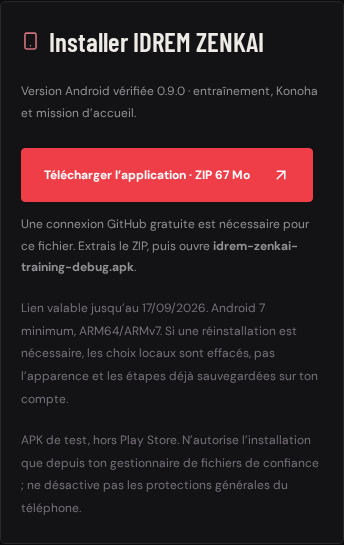
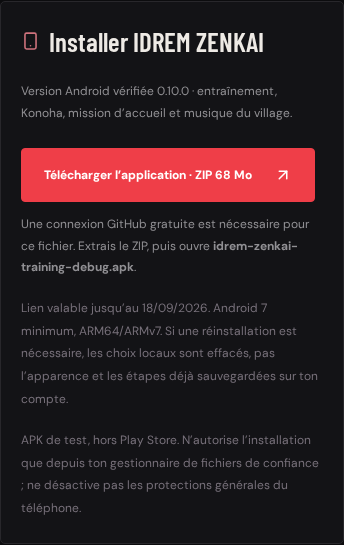
docs: deliver verified grouped 0.10 and update accepted installer link [skip ci]

diff --git a/src/main.jsx b/src/main.jsx
@@ -1399,12 +1399,14 @@ function Account() {
           </div>
           <p>
             Version Android vérifiée {account.download?.version || "—"} ·
-            entraînement, Konoha et mission d’accueil.
+            entraînement, Konoha, mission d’accueil et musique du village.
           </p>
           {account.download?.available ? (
             <>
               <a className="button" href="/api/game-download">
-                Télécharger l’application · ZIP {Math.round(account.download.bytes / 1000000)} Mo <ArrowUpRight size={18} />
+                Télécharger l’application · ZIP{" "}
+                {Math.round(account.download.bytes / 1000000)} Mo{" "}
+                <ArrowUpRight size={18} />
               </a>
               <p>
                 Une connexion GitHub gratuite est nécessaire pour ce fichier.

diff --git a/server/android-build.js b/server/android-build.js
@@ -1,10 +1,10 @@
 // Last verified installer only. Never advertise an uncompiled development version.
 export const androidBuild = Object.freeze({
-  version: "0.9.0",
+  version: "0.10.0",
   name: "idrem-zenkai-training-debug.apk",
-  bytes: 67075079,
-  expiresAt: "2026-09-17T12:00:52Z",
-  url: "https://github.com/Zorolefrerot/MATCHLY-PROJECT/actions/runs/34474189586/artifacts/10150821501",
+  bytes: 67529246,
+  expiresAt: "2026-09-18T12:57:34Z",
+  url: "https://github.com/Zorolefrerot/MATCHLY-PROJECT/actions/runs/34601493231/artifacts/10264293080",
 });
 export function downloadInfo(now = Date.now()) {
   const { url, ...info } = androidBuild;

diff --git a/game/VALIDATION.md b/game/VALIDATION.md
@@ -1,33 +1,42 @@
-# Validation du prototype — 10 septembre 2026
+# Validation du prototype — 11 septembre 2026
 
-## Ajouts suivants en préparation, sans nouvel APK
-
-Le propriétaire confirme que le lot 0.9 et sa reprise de mission fonctionnent. Suppression des comptes acceptés et téléchargement protégé : **31 tests Node, 9 tests PostgreSQL, 2 parcours Playwright et Vite réussis**, avec données fictives uniquement. Captures mobiles inspectées.
-
-Musique reçue (`1001641947.mp3` sur `main`), décodée, préparée en Vorbis et raccordée au cycle de vie Konoha. Regénération identique, tests natifs ajoutés, analyse statique sans nouvelle erreur ; **import/simulation moteur, écoute Android et nouvelle compilation pas encore exécutés**. Pas de téléchargement par petite tâche. Présence multijoueur et chat non encore implémentés. [État détaillé](../docs/AJOUTS_SITE_MUSIQUE.md).
-
-Les résultats et l’APK suivants restent ceux de **0.9 déjà livré et confirmé fonctionnel par le propriétaire**, pas une validation des nouvelles modifications.
-
-## Résultats obtenus
+## Résultats actuels du lot regroupé 0.10
 
 | Vérification | Résultat réel |
 |---|---|
-| Tests Node du site + isolation/sons du prototype | **28/28 passent** |
-| Intégration PostgreSQL réel jetable | **8/8 passent**, dont compte et mission sur deux pools |
+| Tests Node du site et des ressources du prototype | **31/31 passent** |
+| Intégration PostgreSQL réel jetable | **9/9 passent**, dont suppression/remplacement et concurrence sur deux pools |
+| Parcours Playwright Chromium | **2/2 passent**, dont téléchargement accepté et suppression fictive sur mobile |
 | Construction Vite du site | Réussie, 1 597 modules |
-| Analyse GDScript | Import et exécution réussis dans Godot officiel 4.5.1 |
-| Exécution Godot de `tests/smoke.gd` | **231 assertions passent**, code de sortie 0, `IDREM_SMOKE_FAILURES=0` |
-| Erreurs dans le journal de la simulation | Aucune `SCRIPT ERROR`, `ERROR` ou assertion échouée |
-| Import dans l’éditeur officiel complet (CI) | Réussi, contrôle strict passé |
-| Import dans l’ancien éditeur local réduit | Erreurs d’environnement `fontconfig`, historique ci-dessous |
-| Rendu GL / captures | Étape CI réussie sous Xvfb/Mesa ; journal et incident réseau inspectés, pas un test Android |
-| Export APK / signature / permissions finales | **Réussis** : signature debug vérifiée avec `apksigner`, contrôle `aapt` avec INTERNET requis, sans caméra/micro/contacts/localisation/stockage externe |
-| Téléphone Android physique | **0.1.0 testé par le propriétaire** : fluidité appréciée, logo gênant signalé. **0.4 validé ; 0.6 confirmé fonctionnel ; zone 0.7 approuvée par le propriétaire ; lot 0.9 à tester** |
-| Workflow GitHub Actions | Activé par le propriétaire ; exécution **34474189586 verte** |
+| Import dans l’éditeur officiel complet | Réussi dans Godot 4.5.1, contrôle strict passé |
+| Exécution de `tests/smoke.gd` | **238 assertions passent**, sortie 0, `IDREM_SMOKE_FAILURES=0` |
+| Journal de simulation | Aucune `SCRIPT ERROR`, `ERROR` ou assertion échouée |
+| Rendu GL / captures | Étape CI réussie sous Xvfb/Mesa ; arrivée avec musique et journal inspectés |
+| Musique | Vorbis décodé, boucle et cycle de vie testés avec pilote Dummy ; pas une écoute humaine |
+| Export APK / signature / permissions finales | Réussis : `apksigner`, INTERNET requis ; sans caméra/micro/contacts/localisation/stockage externe |
+| Téléphone Android physique | **0.9 confirmé par le propriétaire**, mission et reprise comprises ; **0.10 à tester** |
+| GitHub Actions | Exécution **34601493231 verte** |
+| Production Render | **Mise à jour 0.10 non effectuée par l’agent**, Manual Deploy nécessaire |
 
-Le propriétaire a confirmé le compte 0.6 et approuvé le quartier 0.7. Après les décors 0.8, il a demandé des lots de plusieurs tâches avant installation et validé mission d’accueil + journal + persistance. **Le lot 0.9 n’a pas encore été essayé sur son téléphone ni déployé sur son serveur Render.** Les contrôles utilisent des bases jetables et des réponses/profils fictifs ; ils ne constituent pas un essai HTTPS en production ou un benchmark Android.
+Les contrôles utilisent des bases jetables et des profils fictifs. Aucun compte réel supprimé. Pas d’essai HTTPS de production ni de benchmark Android. Présence multijoueur, déplacements synchronisés et chat RP/HRP restent à implémenter.
 
-## Mise à jour 0.9.0 — mission d’accueil, journal et sauvegarde
+## Mise à jour 0.10.0 — administration, téléchargement et musique
+
+[Exécution n° 19](https://github.com/Zorolefrerot/MATCHLY-PROJECT/actions/runs/34601493231), source **`33fb9ac7d8aa152373be0fa7dca2711749132456`**, branche `arena/01a08158-matchly-project`. Job **103269627552**, du 11 septembre 2026 à **12:55:55 à 12:57:39 UTC**. Un seul APK pour les trois ajouts ; les métadonnées et documents de livraison sont actualisés ensuite sans deuxième build.
+
+- **238 assertions Godot** : les 231 précédentes conservées plus sept vérifications musicales (Vorbis en boucle, volume/bus, lecture et isolation du combat, coupure, focus, arrêt à la sortie). Import, simulation, export, signature, permissions et captures réussis.
+- **31 tests Node, 9 tests PostgreSQL, 2 parcours Playwright et Vite** réussis. Suites locales relancées après mise à jour du lien 0.10. Les tests navigateur couvrent l’admission et le téléchargement, les confirmations de suppression, l’erreur de mot de passe et son effacement, une suppression fictive et la révocation de session.
[1 lines of base64/hex data omitted]
+- Captures ordinateur récupérées intégralement via Checks et inspectées : [arrivée et bouton musical](../docs/images/konoha-10-arrival.jpg), [journal](../docs/images/konoha-10-journal.jpg). Les autres vues du ZIP ne sont pas prétendues inspectées. [Téléchargement 0.10 mobile](../docs/images/download-accepted-mobile.png) également inspecté.
+- Version **0.10.0**, code **10**, HUD **PROTO 0.10**, paquet `org.idremzenkai.training`, API minimum 24/cible 35, ARM64 et ARMv7. Signature debug ; une réinstallation peut être nécessaire, avec perte des préférences locales mais pas des sauvegardes du compte conservé.
[2 lines of base64/hex data omitted]
+- Journaux `godot-test-logs-19` : artefact **10264437975**, **24 295 octets**, pas l’installateur.
+- API GitHub après livraison : **27 artefacts non expirés**, total **517 240 603 octets** (environ **493,3 Mio**), contre 449 687 062 avant ce build. Proche du quota gratuit ; ce sous-total du dépôt n’est pas le relevé global de facturation. Aucun artefact supprimé, budget changé ou workflow modifié par l’agent.
+- Serveur : migrations additives, suppression acceptée avec nom exact/mot de passe/accord explicite de libération de place, révocation des accès, anonymisation et audit conservés ; vingt places et exactement trois potentiels préservés lors des remplacements. Téléchargement recontrôlé au clic. Aucun nouveau secret requis.
+- **Déployer le dernier commit sur le service Render existant avant l’essai du site**. Écoute/installation réelles de 0.10 encore à confirmer. [Contrats et limites](../docs/AJOUTS_SITE_MUSIQUE.md).
+
+## Historique : mise à jour 0.9.0 — mission d’accueil, journal et sauvegarde
 
 [Exécution n° 18](https://github.com/Zorolefrerot/MATCHLY-PROJECT/actions/runs/34474189586), source **`fc8beb91a2fd9d9a9d085575ad614bf05dd4e41f`**, branche `arena/01a08158-matchly-project`. Lot implémenté en `334d81d85714bc505d09019c06dd87da18e75370`, puis durcissement des types JSON. Job **102860911832**, toutes les étapes réussies en **1 min 40 s**, du 10 septembre 2026 à 11:59:19 à 12:00:59 UTC.
 
@@ -37,7 +46,7 @@ Le propriétaire a confirmé le compte 0.6 et approuvé le quartier 0.7. Après 
 - Import officiel, simulation, export Android debug signé, permissions et captures réussis. **Un seul APK du lot publié** après le contrôle préalable ; aucun téléchargement intermédiaire demandé au propriétaire.
 - Dix-huit captures ordinateur produites. **Journal et incident réseau inspectés**, images 480×270 récupérées intégralement via huit notices Checks. Texte défilant contenu dans le panneau, boutons visibles. Les autres captures sont dans le ZIP, pas prétendues inspectées individuellement ici. Captures avec profils fictifs, y compris l’incident ; pas de véritable coupure de réseau Android.
 - Serveur modifié uniquement pour l’orientation : table additive `welcome_missions`, champ `welcomeMission` et route de cinq événements bornés. Les sessions et contrôles d’admission existants protègent chaque écriture ; pas de position, outbox local ou récompense. Un client modifié peut déclarer ses lectures : ce n’est pas une validation anti-triche de déplacement.
-- **Déploiement Render nécessaire avant l’essai**, service et branche existants, migration automatique sans nouveau secret. `autoDeploy: false` conservé. Ni Neon de production ni les comptes réels n’ont été modifiés par les tests.
+- Lors de la livraison 0.9 : **déploiement Render nécessaire avant l’essai**, service et branche existants, migration automatique sans nouveau secret. Le propriétaire a ensuite confirmé le fonctionnement de la mission et de sa reprise. `autoDeploy: false` conservé. Ni Neon de production ni les comptes réels n’ont été modifiés par les tests.
 - Version **0.9.0**, code **9**, HUD **PROTO 0.9**, paquet `org.idremzenkai.training`, API minimum 24/cible 35, ARM64 et ARMv7. INTERNET conservé, aucune nouvelle permission sensible ; signature debug vérifiée.
[2 lines of base64/hex data omitted]

diff --git a/game/README.md b/game/README.md
@@ -2,19 +2,27 @@
 
 Prototype avec **entraînement solo hors ligne**, **compte connecté** et **premier quartier de Konoha à explorer en solo**. Godot **4.5.1 Standard**, GDScript, rendu Compatibility/OpenGL ES 3. Les personnages restent procéduraux et provisoires. Les nouveaux bâtiments sont construits en code ; leurs surfaces et la falaise utilisent aussi les références fournies par le propriétaire, pas des modèles définitifs du jeu Naruto.
 
-## Prochain lot en préparation
+## Lot 0.10 — musique du village et ajouts au site
 
-La mission 0.9 est confirmée fonctionnelle par le propriétaire. Sa musique de village est maintenant préparée et raccordée au code, avec bouton de coupure, pause sur perte de focus et arrêt à la sortie. **Pas encore de nouvel APK ou d’essai moteur de cet ajout.** Le site reçoit suppression protégée et téléchargement pour les admis ; le multijoueur reste à implémenter. [Suivi](../docs/AJOUTS_SITE_MUSIQUE.md).
+La musique fournie joue en fond dans Konoha, avec **MUSIQUE : OUI/NON**, le volume général existant, une pause en arrière-plan et un arrêt à la sortie. Le site reçoit la suppression protégée d’un compte accepté et le téléchargement réservé aux admis. **Mettre à jour le service Render existant** pour afficher ces fonctions et le lien 0.10.
 
-## Lot 0.9 — première mission, journal et sauvegarde
+**238 assertions Godot**, 31 tests Node, 9 tests PostgreSQL et 2 parcours Playwright réussis. APK debug exporté, signature et permissions vérifiées ; arrivée et journal inspectés. **Écoute et essai sur téléphone encore à faire.** Le multijoueur n’est pas inclus. [Détails](../docs/AJOUTS_SITE_MUSIQUE.md).
+
+- [ZIP `idrem-zenkai-android-19` — environ 68 Mo](https://github.com/Zorolefrerot/MATCHLY-PROJECT/actions/runs/34601493231/artifacts/10264293080), jusqu’au **18 septembre 2026** ; connexion GitHub nécessaire.
+- [Exécution verte](https://github.com/Zorolefrerot/MATCHLY-PROJECT/actions/runs/34601493231). Extraire **`idrem-zenkai-training-debug.apk`**, pas les journaux.
+- Même fichier proposé par **Installer IDREM ZENKAI** dans l’espace des joueurs acceptés après déploiement du site.
+
+![Konoha 0.10, capture ordinateur réelle](../docs/images/konoha-10-arrival.jpg)
+
+## Lot 0.9 conservé — première mission, journal et sauvegarde
 
 Une seule version réunit le lot demandé : **accepter la mission auprès d’Aoi → lire/valider trois panneaux → remettre son rapport**, avec journal défilant et étapes sauvegardées sur le compte. Les étapes ne sont cochées qu’après confirmation serveur ; coupure/conflit → actualisation, pas de fausse sauvegarde locale. Aucun objet, ryō, expérience ou pouvoir accordé.
 
 **Mettre à jour le service Render existant avant l’essai : Manual Deploy → Deploy latest commit, puis attendre Live.** Même branche, mêmes secrets, migration additive au démarrage. Le mode d’exploration reste utilisable sur un ancien serveur, mais les missions y sont explicitement indisponibles. [Parcours, contrat et limites](../docs/MISSION_ACCUEIL.md).
 
-## État vérifié
+## Historique de validation 0.9
 
-**Version 0.9.0 compilée le 10 septembre 2026.** **231 assertions Godot**, 28 tests Node, 8 tests PostgreSQL, export signé et permissions vérifiés. Journal et incident réseau inspectés sur captures ordinateur ; **le déploiement Render 0.9 et l’essai sur téléphone restent à faire**. Détails : [`VALIDATION.md`](VALIDATION.md).
+**Version 0.9.0 compilée le 10 septembre 2026.** **231 assertions Godot**, 28 tests Node, 8 tests PostgreSQL, export signé et permissions vérifiés. Journal et incident réseau inspectés sur captures ordinateur ; **le propriétaire a ensuite confirmé que la mission et sa reprise fonctionnent sur son téléphone**. Détails : [`VALIDATION.md`](VALIDATION.md).
 
 - [ZIP `idrem-zenkai-android-18` (environ 67 Mo)](https://github.com/Zorolefrerot/MATCHLY-PROJECT/actions/runs/34474189586/artifacts/10150821501) — connexion GitHub nécessaire, disponible jusqu’au **17 septembre 2026**.
 - [Exécution verte](https://github.com/Zorolefrerot/MATCHLY-PROJECT/actions/runs/34474189586).
@@ -54,7 +62,7 @@ Détails, contrôles et limites : [première zone de Konoha](../docs/KONOHA_PREM
 - **APPARENCE HORS LIGNE** garde une sauvegarde distincte, sans requête réseau. Les choix du compte ne remplacent pas le combattant local ni ses quatre techniques de test.
 - Une réinstallation efface les choix **locaux** des versions précédentes, qui ne sont pas automatiquement transférés sur le compte. Les modèles, sons et combats validés sont conservés. Affichage **PROTO 0.6**.
 
-**Activation, API et limites : [Compte du jeu](../docs/COMPTE_JEU.md).** Serveur 0.6 confirmé par le propriétaire ; déploiement de l’ajout mission 0.9 encore à effectuer, sans vérification indépendante de la production par l’agent. Le quartier 0.7 est une visite solo avec ce profil, pas un monde multijoueur ou une zone de combat partagée.
+**Activation, API et limites : [Compte du jeu](../docs/COMPTE_JEU.md).** Compte et mission 0.9 confirmés par le propriétaire ; déploiement des ajouts site 0.10 encore à effectuer, sans vérification indépendante de la production par l’agent. Le quartier 0.7 est une visite solo avec ce profil, pas un monde multijoueur ou une zone de combat partagée.
 
 ## Créateur 0.5 conservé — apparence hors ligne
 
@@ -132,7 +140,7 @@ La connexion Arena ne peut toujours pas modifier les workflows eux-mêmes, mais 
 2. Choisir **Android - Prototype IDREM ZENKAI** et une exécution **verte** correspondant à la version du jeu souhaitée sur `arena/01a08158-matchly-project`. Une mise à jour de documentation seule peut ne pas créer de nouvelle APK.
 3. Dans **Artifacts**, télécharger `idrem-zenkai-android-…` (connexion à GitHub nécessaire).
 4. Extraire le ZIP sur le téléphone et ouvrir `idrem-zenkai-training-debug.apk`.
-5. Les clés de test changent entre compilations : **désinstaller l’ancien prototype avant d’installer la version 0.9.0** si Android refuse la mise à jour. Cela ne supprime aucun compte du site. Si Android demande une autorisation d’installation depuis le navigateur/gestionnaire de fichiers, ne l’accorder qu’à cette application de confiance et la retirer après installation. Ne pas désactiver les protections globales du téléphone.
+5. Les clés de test changent entre compilations : **désinstaller l’ancien prototype avant d’installer la version 0.10.0** si Android refuse la mise à jour. Cela ne supprime aucun compte du site. Si Android demande une autorisation d’installation depuis le navigateur/gestionnaire de fichiers, ne l’accorder qu’à cette application de confiance et la retirer après installation. Ne pas désactiver les protections globales du téléphone.
 6. Garder les graphismes **Économie** pour le premier essai.
 
 L’APK est signé avec une **clé de test temporaire**, pas une clé Play Store. Une nouvelle exécution peut générer une signature différente : Android pourra demander de désinstaller le prototype précédent avant installation. Le paquet `org.idremzenkai.training` est distinct du futur jeu. Aucun compte ni candidature n’est supprimé en désinstallant ce prototype.

diff --git a/docs/AJOUTS_SITE_MUSIQUE.md b/docs/AJOUTS_SITE_MUSIQUE.md
@@ -1,6 +1,6 @@
 # Ajouts demandés : suppression de compte, téléchargement et musique
 
-**Sources implémentées ; site testé localement, musique préparée et raccordée mais pas encore compilée/testée dans Godot.** Le propriétaire confirme le bon fonctionnement du lot 0.9, puis demande ces trois ajouts en parallèle de la préparation du multijoueur. Aucun nouveau téléchargement Android imposé à chaque tâche.
+**Lot 0.10 compilé : site testé localement, musique importée et cycle de lecture contrôlé dans Godot. Déploiement Render et écoute sur téléphone encore à faire.** Le propriétaire confirme le bon fonctionnement du lot 0.9, puis demande ces trois ajouts en parallèle de la préparation du multijoueur. Aucun nouveau téléchargement Android imposé à chaque tâche.
 
 ## Supprimer un compte accepté
 
@@ -22,7 +22,7 @@ Une suppression libère la place correspondante ; une nouvelle admission puis at
 
 Le panneau **Installer IDREM ZENKAI** n’apparaît que pour un compte accepté. `GET /api/game-download` recontrôle la session et l’admission au moment du clic ; ni l’administrateur ni un candidat en attente ne peut utiliser cette route. Les réponses sont non mises en cache.
 
-Le panneau pointe actuellement vers **l’APK 0.9 déjà vérifié**, pas vers une compilation inexistante des nouveaux ajouts : ZIP d’environ 67 Mo, nom de l’APK, instructions d’extraction et limites de réinstallation. La connexion GitHub est nécessaire pour ce stockage temporaire, signalée avant le clic. Après l’expiration du **17 septembre 2026 à 12:00:52 UTC**, le bouton est retiré et la route renvoie 410 au lieu de rediriger vers un fichier périmé. Métadonnées dans `server/android-build.js`, à actualiser lors du prochain APK vérifié.
+Le panneau pointe actuellement vers **l’APK 0.10 vérifié**, incluant la musique : ZIP d’environ 68 Mo, nom de l’APK, instructions d’extraction et limites de réinstallation. La connexion GitHub est nécessaire pour ce stockage temporaire, signalée avant le clic. Après l’expiration du **18 septembre 2026 à 12:57:34 UTC**, le bouton est retiré et la route renvoie 410 au lieu de rediriger vers un fichier périmé. Métadonnées actualisées dans `server/android-build.js` uniquement après compilation réussie.
 
 Il s’agit d’un **contrôle d’accès à la distribution sur le site**, pas d’un DRM : un joueur peut partager un fichier déjà téléchargé, et le lien GitHub ne possède pas une autorisation liée au compte du site. Le jeu connecté continue de vérifier l’admission. Aucun compte GitHub ni secret de service n’est créé sur Render.
 
@@ -38,9 +38,19 @@ Un seul lecteur est rattaché à Konoha. Il respecte le volume général existan
 
 - **31 tests Node**, **9 tests PostgreSQL jetable**, dont suppression/replacement concurrent sur deux pools, et Vite réussis.
 - **2 parcours Playwright Chromium réussis**, incluant les écrans mobiles, téléchargement accepté, confirmation erronée, mot de passe vidé, suppression d’un compte fictif et refus de son ancienne session. Captures mobiles inspectées et conservées ci-dessous. Aucun compte réel supprimé.
-- Tests de musique ajoutés à Godot : boucle distincte, volume général, absence de chevauchement du combat, commande tactile, focus et arrêt à la sortie. Analyse GDScript sans nouvelle erreur (l’avertissement tiers historique de géométrie 0.8 demeure). **Exécution moteur, écoute sur téléphone et nouvel APK encore à faire avec le lot complet.**
+- Tests de musique ajoutés à Godot : boucle distincte, volume général, absence de chevauchement du combat, commande tactile, focus et arrêt à la sortie. Analyse GDScript sans nouvelle erreur (l’avertissement tiers historique de géométrie 0.8 demeure). **238 assertions Godot passent**, dont les sept vérifications musicales. Écoute réelle et essai téléphone encore à faire ; pilote audio Dummy pendant les tests.
 - **Aucun déploiement Render effectué par l’agent.** Pour activer les ajouts du site : service existant, branche `arena/01a08158-matchly-project`, Manual Deploy → Deploy latest commit. Migrations additives au démarrage, aucun nouveau secret. Les textes de confirmation exposent la libération de place avant toute action.
-- **Présence multijoueur, déplacements synchronisés et chat RP/HRP restent à implémenter.** Ils ne sont pas inclus dans ces trois ajouts et ne sont pas annoncés comme testés. Le propriétaire a demandé de regrouper le travail avant le prochain APK ; ce commit ne lance pas une compilation Android intermédiaire.
+- **Présence multijoueur, déplacements synchronisés et chat RP/HRP restent à implémenter.** Ils ne sont pas inclus dans ces trois ajouts et ne sont pas annoncés comme testés. Les trois ajouts sont regroupés dans un seul APK 0.10 ; aucun APK par petite tâche.
+
+## Version regroupée vérifiée
+
+- [Exécution 34601493231](https://github.com/Zorolefrerot/MATCHLY-PROJECT/actions/runs/34601493231), source `33fb9ac7d8aa152373be0fa7dca2711749132456`, Godot 4.5.1, version **0.10.0/code 10**.
+- [ZIP `idrem-zenkai-android-19`](https://github.com/Zorolefrerot/MATCHLY-PROJECT/actions/runs/34601493231/artifacts/10264293080), **67 529 246 octets**, disponible jusqu’au **18 septembre 2026**. APK à l’intérieur : `idrem-zenkai-training-debug.apk`. Le fichier de journaux n’est pas l’installateur.
+- **31 tests Node, 9 tests PostgreSQL, 2 parcours Playwright, 238 assertions Godot**, Vite, signature Android, permissions et captures réussis. Arrivée avec commande musicale et journal inspectés sur captures ordinateur ; capture mobile du téléchargement actualisé 0.10 également inspectée.
+- Le décodage du Vorbis final confirme **78,13265 s**, pic **0,58483**, RMS **0,08104**, écart entre dernier et premier échantillons **0,0000764**. Ce sont des mesures du signal, pas une écoute ni un benchmark du téléphone.
+- [Empreintes et détails de validation](../game/VALIDATION.md).
+
+![Arrivée dans la version 0.10 avec commande musicale, capture ordinateur](images/konoha-10-arrival.jpg)
 
 ![Téléchargement réservé, rendu navigateur mobile avec compte fictif](images/download-accepted-mobile.png)
 ![Suppression protégée, erreur de mot de passe simulée, champ vidé](images/account-removal-mobile.png)

diff --git a/docs/KONOHA_PREMIERE_ZONE.md b/docs/KONOHA_PREMIERE_ZONE.md
@@ -2,13 +2,17 @@
 
 **APK 0.9 compilée, tests moteur et captures du journal vérifiés.** Le propriétaire a approuvé le quartier 0.7 puis demandé un décor moins cubique (0.8). Le lot 0.9 regroupe ensuite mission d’accueil, journal et sauvegarde sur compte. **Déploiement Render 0.9 et essai sur son téléphone encore à faire.**
 
+## Version 0.10 — musique de fond
+
+La musique fournie est maintenant incluse, en boucle et à volume de fond, avec commande **MUSIQUE : OUI/NON**. Pause en arrière-plan et arrêt en quittant Konoha vérifiés dans le moteur ; écoute sur téléphone encore à faire. Le quartier et la mission 0.9 restent conservés. [APK regroupé 0.10 et ajouts du site](AJOUTS_SITE_MUSIQUE.md).
+
 ## Mission d’accueil 0.9
 
 Parler à Aoi et accepter la mission, lire/valider les panneaux de l’académie, du marché et de la résidence, puis revenir lui remettre son rapport. **JOURNAL** indique les étapes réellement confirmées sur le compte. Coupure ou conflit : actualiser, sans cocher une étape non confirmée. [Contrat, limites et téléchargement du lot](MISSION_ACCUEIL.md).
 
 ## Accès
 
-1. Dans l’APK **0.9**, ouvrir **MON COMPTE** et se connecter avec son compte joueur admis.
+1. Dans l’APK **0.10**, ouvrir **MON COMPTE** et se connecter avec son compte joueur admis.
 2. Appuyer sur **ENTRER À KONOHA · PREMIÈRE ZONE SOLO**. Le serveur est interrogé à nouveau pour vérifier la session/admission et récupérer la dernière apparence sauvegardée.
 
 **Mettre à jour le service Render existant avant de tester la mission** : Manual Deploy → Deploy latest commit, puis attendre Live. Même API de compte avec champ mission additionnel et route d’événements, migration additive automatique, sans nouveau secret. Sur un ancien serveur, seule l’exploration reste disponible. Le compte administrateur demeure distinct ; ses fonctions initiales de Hokage/chef de l’Akatsuki ne sont pas ajoutées à ce lot.
@@ -38,7 +42,7 @@ Le monument utilise les **quatre premiers visages** pour correspondre à l’ima
 - Bâtiments visibles de l’extérieur uniquement ; portes fermées, pas d’intérieurs, boutique, inventaire ou mission rémunérée.
 - Le repérage n’accorde aucun objet, ryō, expérience, rang ou pouvoir. La position n’est pas sauvegardée : une nouvelle visite repart de l’entrée. Les étapes confirmées de la mission, elles, sont rechargées depuis le compte.
 - L’admission est vérifiée à l’entrée, à l’actualisation du journal et lors de chaque écriture de mission, pas surveillée en continu. Aucun appel réseau périodique pendant la marche.
-- Géométrie et personnages procéduraux provisoires, pas une reconstitution complète/définitive de Konoha. Pas de nouvelle musique ; les sons de combat fournis sont conservés dans l’entraînement.
+- Géométrie et personnages procéduraux provisoires, pas une reconstitution complète/définitive de Konoha. Musique de village fournie ajoutée en 0.10 ; les sons de combat restent conservés et séparés dans l’entraînement.
 
 ## Isolation technique et performances
 

diff --git a/docs/COMPTE_JEU.md b/docs/COMPTE_JEU.md
@@ -7,7 +7,7 @@
 1. Dans le service existant sur [Render](https://dashboard.render.com/), utiliser **Manual Deploy → Deploy latest commit**. La branche reste `arena/01a08158-matchly-project`. Ne pas créer de second service et ne pas remplacer les variables privées existantes.
 2. Attendre **Live**, puis vérifier que le site s’ouvre toujours et que le compte propriétaire fonctionne. Le déploiement applique automatiquement les tables supplémentaires du compte et de la mission d’accueil ; aucun tirage/admission n’est relancé.
 
-Après cela seulement : installer l’APK 0.9 indiquée dans [`game/README.md`](../game/README.md), ouvrir **MON COMPTE**, saisir l’adresse HTTPS exacte du site (origine uniquement, sans chemin), puis les identifiants d’un **compte joueur accepté ayant déjà reçu son attribution sur le site**. Ne jamais envoyer de mot de passe dans la conversation. Le propriétaire administrateur reste séparé des places joueurs ; pas de contournement automatique de l’admission.
+Après cela seulement : installer l’APK 0.10 indiquée dans [`game/README.md`](../game/README.md), ouvrir **MON COMPTE**, saisir l’adresse HTTPS exacte du site (origine uniquement, sans chemin), puis les identifiants d’un **compte joueur accepté ayant déjà reçu son attribution sur le site**. Ne jamais envoyer de mot de passe dans la conversation. Le propriétaire administrateur reste séparé des places joueurs ; pas de contournement automatique de l’admission.
 
 L’URL réelle du service n’étant pas enregistrée dans le dépôt, aucune adresse de production n’a été devinée/compilée dans l’APK. Elle se renseigne dans l’application et reste affichée. Seule cette origine publique est mémorisée sur le téléphone. Les redirections sont refusées et les certificats HTTPS restent vérifiés.
 
@@ -78,3 +78,8 @@ Les nouvelles sources ajoutent `welcomeMission` au profil et une route native bo
 Ce lot **nécessite une mise à jour Render** avant de tester la sauvegarde des missions. Le serveur ajoute sa table au démarrage, sans manipulation manuelle de Neon ni nouveau secret. Le mode d’exploration ancien reste disponible si le serveur n’est pas encore à jour. [Contrat, limites et validation](MISSION_ACCUEIL.md).
 
 Validation de 0.9 : **231 assertions Godot, 28 tests Node, 8 tests PostgreSQL**, journal et incident réseau inspectés sur ordinateur. Déploiement Render 0.9 et essai sur appareil réel encore à faire.
+
+
+## Lot 0.10 — administration et distribution
+
+Suppression d’un compte accepté avec confirmation exacte, mot de passe propriétaire et consentement à libérer une place ; sessions et données joueur supprimées, identifiant anonymisé/audit conservés. Le paquet de vingt places et trois potentiels demeure cohérent. Téléchargement dans l’espace accepté, avec recontrôle serveur à chaque clic et gestion de l’expiration. **Nouvelle mise à jour Render nécessaire** pour afficher ces ajouts et l’APK 0.10 avec musique. [Contrat et validation](AJOUTS_SITE_MUSIQUE.md).

diff --git a/docs/CAHIER_DES_CHARGES.md b/docs/CAHIER_DES_CHARGES.md
@@ -274,4 +274,4 @@ APK 0.9 compilée : 231 assertions Godot, 28 tests Node et 8 tests PostgreSQL pa
 
 ### Ajouts demandés après validation téléphone de 0.9
 
-Le propriétaire confirme mission et reprise après reconnexion, autorise le début du lot multijoueur (présence de deux comptes admis, déplacements, reconnexion sans doublon, proximité RP/HRP), puis ajoute : suppression administrative d’un compte accepté, accès au téléchargement sur le site pour les admis, musique de fond fournie au dépôt. Les trois ajouts site/audio sont codés ; le multijoueur reste à implémenter. Suppression irréversible avec confirmation de la libération de place, conservation d’un identifiant anonymisé/audit et maintien du paquet de vingt places/trois potentiels. [Contrat, validation et limites](AJOUTS_SITE_MUSIQUE.md).
+Le propriétaire confirme mission et reprise après reconnexion, autorise le début du lot multijoueur (présence de deux comptes admis, déplacements, reconnexion sans doublon, proximité RP/HRP), puis ajoute : suppression administrative d’un compte accepté, accès au téléchargement sur le site pour les admis, musique de fond fournie au dépôt. Les trois ajouts site/audio sont réunis dans l’APK 0.10 compilée et testée (238 assertions Godot) ; le site passe 31 tests Node, 9 tests PostgreSQL et 2 parcours navigateur. Le multijoueur reste à implémenter. Suppression irréversible avec confirmation de la libération de place, conservation d’un identifiant anonymisé/audit et maintien du paquet de vingt places/trois potentiels. [Contrat, validation et limites](AJOUTS_SITE_MUSIQUE.md).

diff --git a/game/assets/village_audio/README.md b/game/assets/village_audio/README.md
@@ -12,4 +12,4 @@ Le manifeste contient empreintes, durée et niveau mesurés. Sources du proprié
 
 Un seul lecteur appartient à la visite. Il utilise le volume général `TrainingMix`, avec -12 dB supplémentaires. Le bouton **MUSIQUE : OUI/NON** permet de le couper ; le réglage d’ambiance de l’entraînement est respecté à l’entrée. La perte de focus suspend le son et la sortie du village l’arrête. Le morceau et les effets de combat restent inchangés.
 
-Tests natifs ajoutés ; leur exécution moteur fait partie de la validation du prochain lot, pas d’une nouvelle installation intermédiaire.
+**Sept vérifications musicales passées dans Godot 4.5.1**, incluses dans les 238 assertions du lot 0.10 : ressource Vorbis en boucle, bus/niveau, lecture sans chevauchement avec le combat, bouton de coupure, pause/reprise sur focus et arrêt à la sortie. Le pilote de test est Dummy : aucune écoute sur téléphone n’est déduite de ces résultats. Import, export Android et captures réussis dans l’exécution 34601493231.
